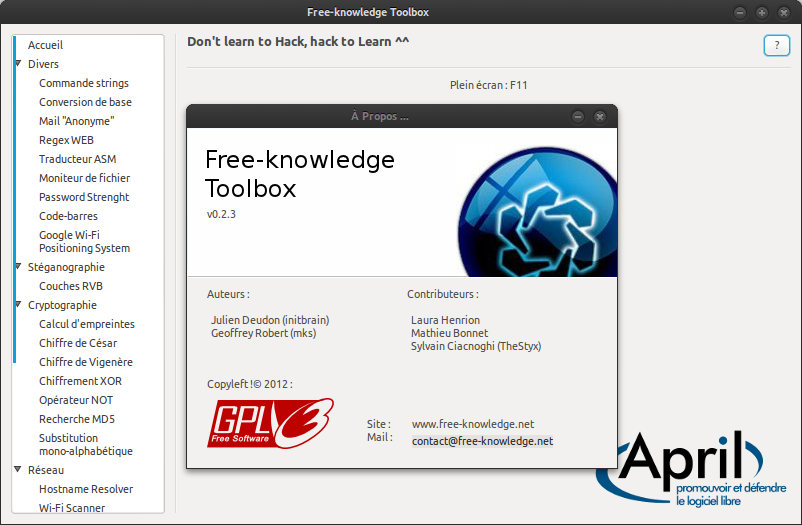
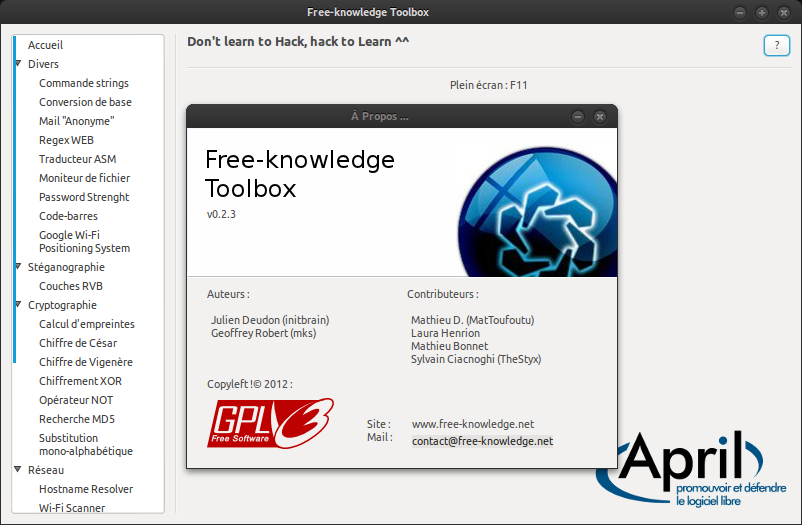
Ajout d'un contributeur et modification du README

Changed region(s): [[0.4988, 0.579, 0.6858, 0.701], [0.9975, 0.0, 1.0, 0.0305]]

diff --git a/fktb/interface/gui/__init__.py b/fktb/interface/gui/__init__.py
@@ -85,6 +85,7 @@ if import_error != "":
 
 # Import modules
 from fktb.lib.network import wifi
+from fktb.lib.other import google
 
 # Configurations
 
@@ -1875,7 +1876,7 @@ class toolbox:
         lab_auteurs = gtk.Label("Auteurs :\n\n  Julien Deudon (initbrain)\n  Geoffrey Robert (mks)")
         fixed_about.put(lab_auteurs, 20, 160)
 
-        lab_contrib = gtk.Label("Contributeurs :\n\n  Laura Henrion\n  Mathieu Bonnet\n  Sylvain Ciacnoghi (TheStyx)")
+        lab_contrib = gtk.Label("Contributeurs :\n\n  Mathieu D. (MatToufoutu)\n  Laura Henrion\n  Mathieu Bonnet\n  Sylvain Ciacnoghi (TheStyx)")
         fixed_about.put(lab_contrib, 220, 160)
 
         lab_contact = gtk.Label("Site :\nMail :")
@@ -4398,7 +4399,7 @@ class toolbox:
         # self.btn_geoloc
         self.btn_geoloc = gtk.Button("Lancer la géolocalisation")
         self.btn_geoloc.set_size_request(int(self.btn_geoloc.size_request()[0]*1.2),self.btn_geoloc.size_request()[1])
-        self.btn_geoloc.connect('clicked', lambda e: thread.start_new_thread(self.geoloc, ()))
+        self.btn_geoloc.connect('clicked', lambda e: thread.start_new_thread(google.geoloc, (self,)))
         boite2_geoloc.pack_start(self.btn_geoloc, True, True, 0)
         self.btn_geoloc.show()
 
@@ -4432,83 +4433,8 @@ class toolbox:
             self.statuGeolocLoop=True
             self.btn2_geoloc.set_label("stop")
             while self.statuGeolocLoop:
-                self.geoloc()
+                google.geoloc(self)
                 sleep(5)
-
-    def geoloc(self):
-        """Google Wi-Fi Positioning System"""
-
-        iface=self.combo_iface_geoloc.get_active_text().split()[0]
-
-        if not getoutput("which iw"):
-            os_info=getoutput("uname -a").lower()
-            alert="Un outils est nécessaire, veuillez l'installer :\niw - tool for configuring Linux wireless devices"
-            alert+=''.join(["\n\n# apt-get install iw" for os in "backtrack","debian","ubuntu","mint","voyager" if os in os_info and not "apt-get" in alert])
-            alert+=''.join(["\n\n# yum install iw\n(à vérifier)" for os in "fedora","centos" if os in os_info and not "yum" in alert])
-            gtk.gdk.threads_enter()
-            self.msgbox(alert,1)
-            gtk.gdk.threads_leave()
-        else:
-            self.btn_geoloc.set_sensitive(False)
-            self.btn_geoloc.set_label("Scan des réseaux Wi-Fi à proximité ...")
-
-            # Vérification des permissions
-            for su_gui_cmd in ['gksu','kdesu','ktsuss','beesu','']:
-                if getoutput("which "+su_gui_cmd): break
-            if not su_gui_cmd:
-                gtk.gdk.threads_enter()
-                self.msgbox("Un des outils suivant est nécessaire pour acquérir les droits administrateur, veuillez en installer un :\n\ngksu\nkdesu\nktsuss\nbeesu",1)
-                gtk.gdk.threads_leave()
-            else: iwOut=getoutput(su_gui_cmd+" iw dev "+iface+" scan")
-
-            if "failed" in iwOut:
-                if not self.statuGeolocLoop:
-                    self.statuGeolocLoop=False
-                    self.btn_geoloc.set_label("Lancer la géolocalisation")
-                    self.btn_geoloc.set_sensitive(True)
-                    gtk.gdk.threads_enter()
-                    self.msgbox("Le scan des réseaux Wi-Fi a échoué.\n\nVérifiez votre carte réseau sans fils !",1)
-                    gtk.gdk.threads_leave()
-                else: self.btn_geoloc.set_label("Echec du scan, nouvel essai dans 5 secondes ...")
-            else:
-                result=re.compile("BSS ([\w\d\:]+).*\n.*\n.*\n.*\n.*\n\tsignal: ([-\d]+)", re.MULTILINE).findall(iwOut)
-
-                self.btn_geoloc.set_label("Génération de la requête ...")
-
-                loc_req={ "version":"1.1.0",
-                          "request_address":False,
-                          #"addresults_language":"fr",
-                          "wifi_towers":[{"mac_address":x[0].replace(":","-"),"signal_strength":int(x[1])} for x in result]
-                }
-
-                #print '\n'.join([l.rstrip() for l in simplejson.dumps(loc_req, sort_keys=True, indent=4*' ').splitlines()])
-
-                self.btn_geoloc.set_label("Envoi de la requête à Google ...")
-
-                data = simplejson.JSONEncoder().encode(loc_req)
-                try: output = simplejson.loads(urllib2.urlopen('https://www.google.com/loc/json', data).read())
-                except:
-                    if not self.statuGeolocLoop:
-                        self.statuGeolocLoop=False
-                        self.btn_geoloc.set_label("Lancer la géolocalisation")
-                        self.btn_geoloc.set_sensitive(True)
-                        gtk.gdk.threads_enter()
-                        self.msgbox("Impossible d'envoyer la requête :\nla connexion avec l'API Google a échoué.\n\nVérifiez votre connexion internet !",1)
-                        gtk.gdk.threads_leave()
-                    else: self.btn_geoloc.set_label("Echec d'envoi, nouvel essai dans 5 secondes")
-                else:
-                    pb = gtk.gdk.pixbuf_new_from_file_at_size("%s/images/icone.png" % FKTB_PATH, 24,24)
-                    try:
-                        self.osm.image_add(output["location"]["latitude"], output["location"]["longitude"], pb)
-                        self.osm.set_center_and_zoom(output["location"]["latitude"], output["location"]["longitude"], 16)
-                    except: pass
-                    else:
-                        self.liststore_geoloc.append(("["+strftime('%H:%M:%S', localtime())+"]", "longitude : "+str(output["location"]["longitude"])+", latitude : "+str(output["location"]["latitude"])))
-                        if not self.statuGeolocLoop:
-                            self.btn_geoloc.set_label("Lancer la géolocalisation")
-                            self.btn_geoloc.set_sensitive(True)
-                        else:
-                            self.btn_geoloc.set_label("Ok, prochaine géolocalisation dans 5 secondes")
 
     def tabPrincipale(self):
         """Définir la page d'ouverture (TAB 1 : Accueil)"""

diff --git a/README.md b/README.md
@@ -1,4 +1,6 @@
 ---
+![![GNU General Public License v3.0](http://www.gnu.org/licenses/gpl-3.0.txt)](https://raw.github.com/initbrain/fktb/master/fktb/images/logo_gpl_v3.png)
+
 [GNU General Public License v3.0](http://www.gnu.org/licenses/gpl-3.0.txt)
 
 ---
@@ -13,7 +15,7 @@ Free-knowledge Toolbox
 
 *   **Installation ($: user, #: root):**
 
-    We have developed our own installer.
+    We have included our own installation wizard.
     It require the installation of the following dependencies:
 
         # apt-get install git python-setuptools
